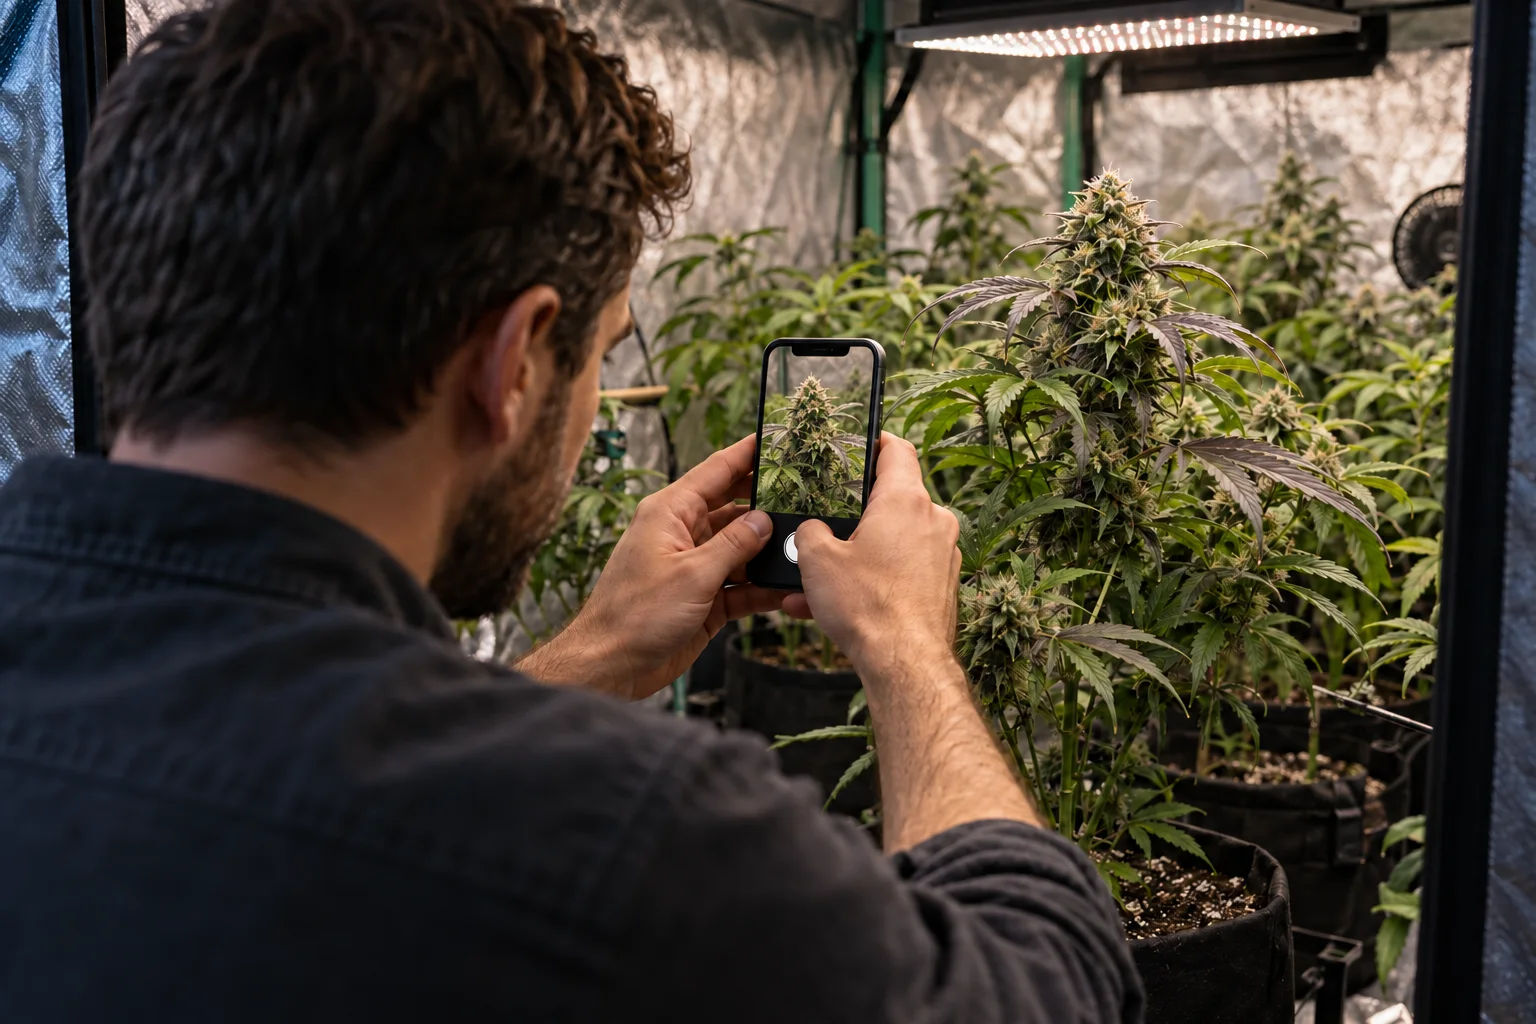
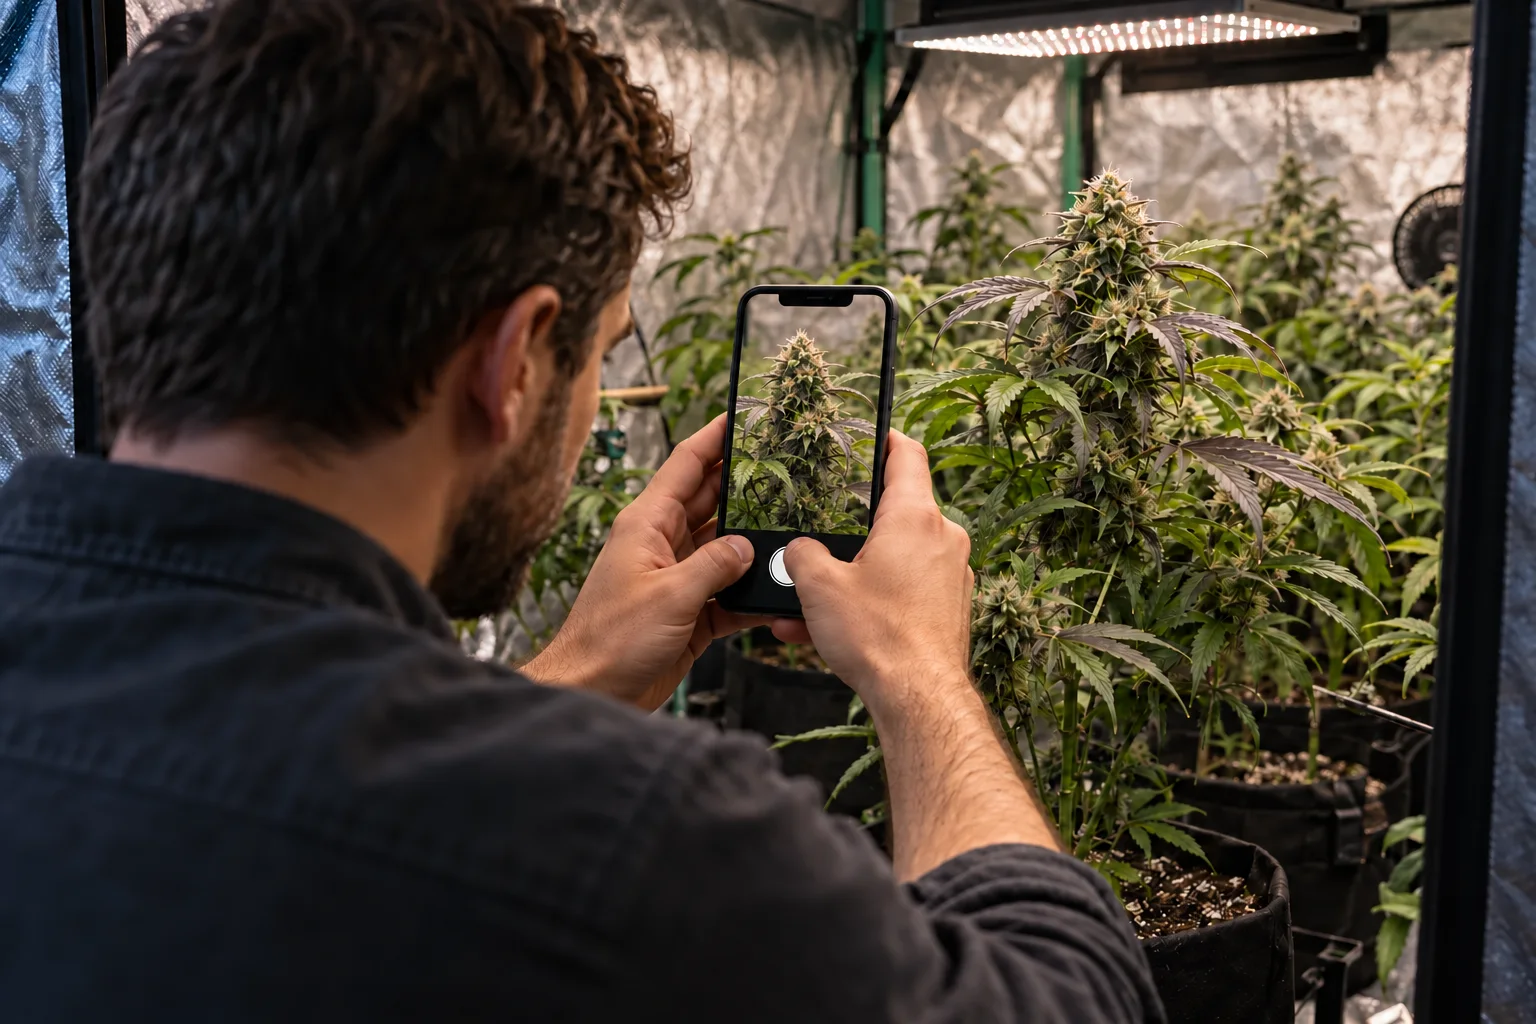
Add interactive example observation report and refine phone proportions

diff --git a/src/components/landing/GrowWalkthrough.tsx b/src/components/landing/GrowWalkthrough.tsx
@@ -1,3 +1,4 @@
+import ExampleHealthReport from "./ExampleHealthReport";
 import { useState } from "react";
 import { ArrowRight, Camera, FileText, NotebookPen, Sparkles } from "lucide-react";
 import { AppActions } from "./HeroSection";
@@ -5,7 +6,7 @@ import { trackEvent } from "@/lib/analytics";
 
 const steps = [
   { label: "Take a photo", icon: Camera, eyebrow: "01 / NOTICE SOMETHING DIFFERENT", title: "Your plant has your attention. Now what?", text: "A leaf looks different during your daily check. Open MasterGrowbot and capture what you see, so you have a starting point for a closer review.", value: "Start with your own plant, right where you are.", image: "walkthrough-capture", alt: "Illustrative home grower photographing a plant inside a grow tent", caption: "AI-generated grower scenario", next: "See the report" },
-  { label: "Review the report", icon: FileText, eyebrow: "02 / GET A SECOND PERSPECTIVE", title: "Turn a photo into something you can review.", text: "Read an AI plant health report with observations and suggested next steps. Use that perspective alongside what you know about your plant and its history.", value: "Give your concern a clearer starting point.", image: "app-2", alt: "Supplied MasterGrowbot plant health report preview", caption: "App preview · Example report, not an analysis of the illustrated plant", next: "Keep a grow record" },
+  { label: "Review the report", icon: FileText, eyebrow: "02 / GET A SECOND PERSPECTIVE", title: "Turn a photo into something you can review.", text: "Explore a hypothetical report that separates visible observations from what a photo cannot establish. Try saving the example to see how a concern becomes an organized record.", value: "Give your concern a clearer starting point.", image: "app-2", alt: "Supplied MasterGrowbot plant health report preview", caption: "App preview · Example report, not an analysis of the illustrated plant", next: "Keep a grow record" },
   { label: "Keep a record", icon: NotebookPen, eyebrow: "03 / BUILD YOUR GROW HISTORY", title: "Remember what you saw. Compare what changes.", text: "Save photos and observations in your grow journal. Return to your records at your next check instead of relying on memory or scattered camera-roll photos.", value: "Make every observation useful beyond today.", image: "walkthrough-record", alt: "Illustrative grower reviewing plant photos and keeping observations beside a grow tent", caption: "AI-generated record-keeping scenario · Not an app screen", next: "Replay the walkthrough" },
 ];
 export default function GrowWalkthrough() {
@@ -16,7 +17,7 @@ export default function GrowWalkthrough() {
     <div className="premium-section-heading"><div><p className="premium-eyebrow">A MOMENT IN YOUR GROW</p><h2 id="walkthrough-title">From “what’s this?”<br/><em>to a clearer next step.</em></h2></div><p>See how photo analysis and grow records fit into a routine you already have. Tap through the example.</p></div>
     <div className="walkthrough-nav" role="group" aria-label="Explore the photo to grow record walkthrough">{steps.map(({label,icon:Icon},i)=><button key={label} type="button" aria-pressed={active===i} aria-controls="walkthrough-panel" onClick={()=>select(i)}><span>0{i+1}</span><Icon size={19}/>{label}</button>)}</div>
     <div id="walkthrough-panel" className={`walkthrough-panel ${active===1?'is-report':''}`}>
-      <figure className="walkthrough-visual"><img src={`/images/premium/${step.image}.webp`} alt={step.alt} width={active===1?700:1536} height={active===1?1516:1024} loading="lazy"/><figcaption>{step.caption}</figcaption></figure>
+      {active===1 ? <ExampleHealthReport/> : <figure className="walkthrough-visual"><img src={`/images/premium/${step.image}.webp`} alt={step.alt} width={1536} height={1024} loading="lazy"/><figcaption>{step.caption}</figcaption></figure>}
       <div className="walkthrough-copy"><div aria-live="polite"><p className="premium-eyebrow">{step.eyebrow}</p><h3>{step.title}</h3><p>{step.text}</p><div className="walkthrough-value"><Sparkles size={20}/><strong>{step.value}</strong></div></div><button type="button" className="premium-button secondary" onClick={()=>select((active+1)%3)}>{step.next}<ArrowRight size={18}/></button><p className="premium-fine">Illustrative journey. AI insights support your judgment; individual reports and results vary.</p></div>
     </div>
     <div className="walkthrough-download"><div><h3>Bring a second set of eyes to your next plant check.</h3><p>Photo analysis, strain intelligence, and grow records with Pro.</p></div><div><AppActions location="walkthrough"/><p className="premium-fine">Pro trial eligibility and subscription terms appear in your store.</p></div></div>

diff --git a/src/components/landing/premium.css b/src/components/landing/premium.css
@@ -775,3 +775,5 @@
 .walkthrough-deeper img{width:100%;height:420px;object-fit:contain}
 .walkthrough-deeper .deeper-scene img{object-fit:cover}
 @media(max-width:767px){.walkthrough-nav{gap:6px}.walkthrough-nav button{flex-direction:column;gap:6px;padding:12px 5px;font-size:12px;min-height:96px}.walkthrough-nav button>span{display:none}.walkthrough-panel{grid-template-columns:1fr;min-height:0}.walkthrough-visual>img{height:320px}.walkthrough-panel.is-report .walkthrough-visual>img{height:490px}.walkthrough-copy{padding:26px}.walkthrough-download{flex-direction:column;align-items:flex-start}.walkthrough-deeper{grid-template-columns:1fr;gap:24px}.walkthrough-copy p,.walkthrough-deeper p{font-size:16px}.walkthrough-deeper img{height:450px}}
+.example-report{margin:22px;padding:26px;background:#f5f8f5;color:#19392c;border-radius:18px;box-shadow:0 18px 60px #0004;font-family:Inter,Arial,sans-serif;text-align:left;min-width:0}
+.example-report header{display:flex;gap:12px;align-items:center}.report-mark{display:grid;place-items:center;background:#d5efdf;border-radius:12px;width:44px;height:44px;flex-shrink:0}.example-report header p{font-size:9px;font-weight:750;letter-spacing:.13em;margin:0 0 6px;color:#426451}.example-report h3{font-size:22px;line-height:1.2;margin:0;letter-spacing:-.03em}.report-example-label{font-size:11px;color:#56705f;line-height:1.5;margin:14px 0}.report-summary{padding:20px;background:#e4efe7;border:1px solid #c6dccd;border-radius:12px}.report-summary>span{font-size:10px;font-weight:800;letter-spacing:.1em}.example-report h4{display:flex;align-items:center;gap:8px;font-size:16px;line-height:1.4;margin:10px 0}.example-report p,.example-report li,.example-report dd{font-size:14px;line-height:1.65}.example-report .report-summary p{margin:8px 0 0}.example-report section{margin-top:20px}.example-report ul{padding-left:20px;margin:10px 0}.example-report details{border-block:1px solid #cbd9cf;padding:14px 0;margin:18px 0}.example-report summary{font-size:14px;font-weight:750;cursor:pointer}.example-report details p{margin:10px 0 0;color:#42604f}.report-record dl{margin:12px 0}.report-record dl>div{display:grid;grid-template-columns:65px 1fr;gap:10px;margin:9px 0}.report-record dt{font-size:11px;text-transform:uppercase;font-weight:750;padding-top:3px;color:#526d5b}.report-record dd{margin:0}.report-save{width:100%;display:flex;align-items:center;justify-content:center;gap:8px;border:0;border-radius:10px;background:#175e3c;color:white;font:inherit;font-weight:650;font-size:14px;min-height:48px;padding:12px;cursor:pointer}.example-report .report-save-note{font-size:11px;color:#526d5b;text-align:center;margin:10px 0 0}.report-save:focus-visible{outline:3px solid #236a49;outline-offset:4px}@media(max-width:767px){.example-report{margin:12px;padding:20px}.example-report h3{font-size:20px}}

diff --git a/src/components/landing/ExampleHealthReport.tsx b/src/components/landing/ExampleHealthReport.tsx
@@ -1,0 +1,14 @@
+import { useState } from "react";
+import { Check, FileText, NotebookPen, Eye } from "lucide-react";
+export default function ExampleHealthReport() {
+  const [saved, setSaved] = useState(false);
+  return <div className="example-report" aria-label="Hypothetical plant observation report">
+    <header><span className="report-mark"><FileText size={22}/></span><div><p>MASTERGROWBOT / WALKTHROUGH</p><h3>Plant observation report</h3></div></header>
+    <p className="report-example-label">Hypothetical example · Website demo, not an app screen</p>
+    <div className="report-summary"><span>PHOTO REVIEW</span><h4>A color change worth documenting.</h4><p>Some visible leaves appear purple alongside green foliage. A photograph alone cannot establish the cause or the plant’s overall health.</p></div>
+    <section><h4><Eye size={18}/>What the image shows</h4><ul><li>Color variation across visible foliage.</li><li>Only one angle and one moment in time.</li><li>No comparison image supplied.</li></ul></section>
+    <details open><summary>What remains unknown</summary><p>Image lighting can influence color. This example does not establish a diagnosis, severity score, recovery timeline, or expected yield.</p></details>
+    <section className="report-record"><h4><NotebookPen size={18}/>Make the observation useful later</h4><dl><div><dt>Record</dt><dd>Original photo + date + plant name</dd></div><div><dt>Your note</dt><dd>“Noticed a color difference today.”</dd></div><div><dt>Compare</dt><dd>Keep the next observation beside this one.</dd></div></dl></section>
+    <button type="button" className="report-save" onClick={()=>setSaved(!saved)}>{saved?<Check size={18}/>:<NotebookPen size={18}/>} {saved?'Example added to demo record':'Try saving this example'}</button><p className="report-save-note" role="status">{saved?'Demo only. Nothing is saved to your app or account.':'Interactive preview · No account or upload needed'}</p>
+  </div>;
+}
